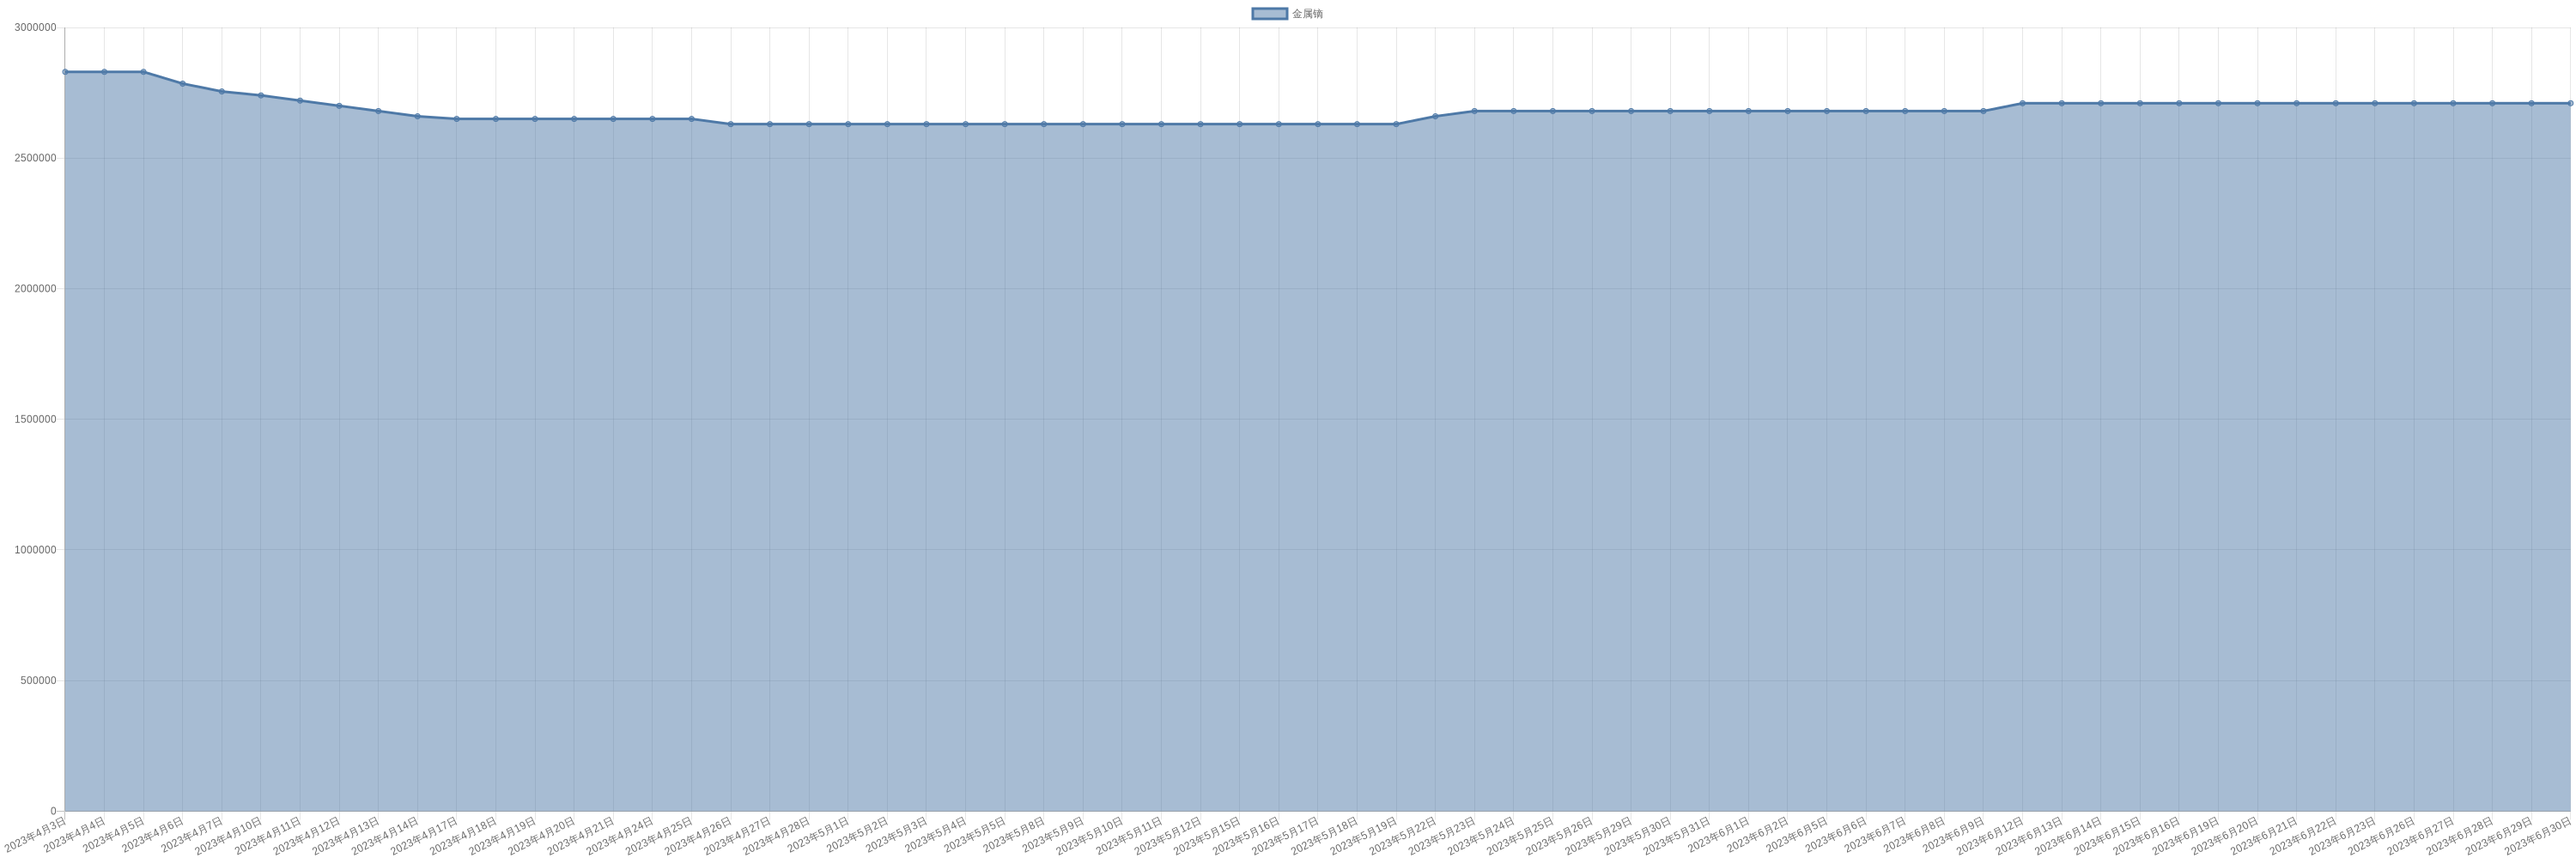
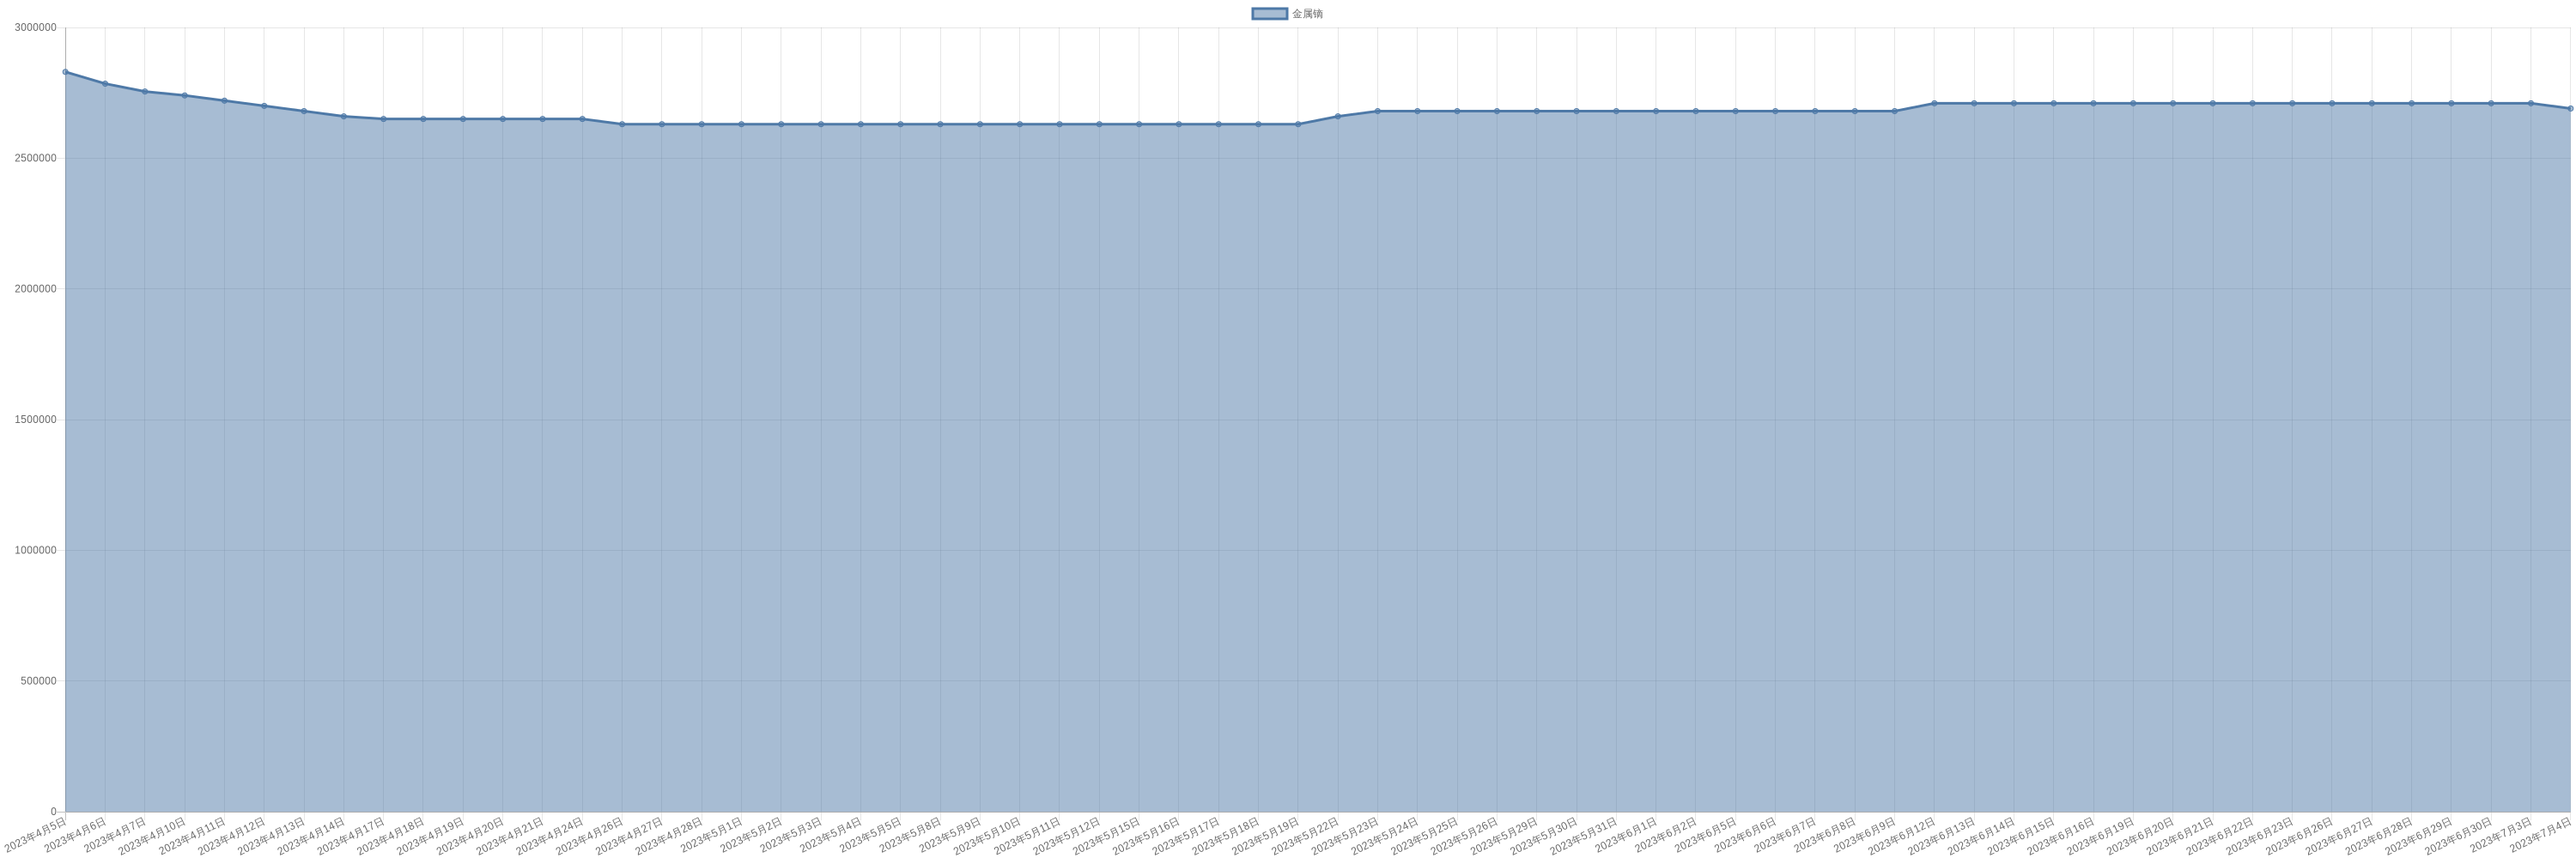
chore: sync bill & melinda gates foundation trust list

diff --git a/markdown/commodity/crudeOil.md b/markdown/commodity/crudeOil.md
@@ -2,6 +2,10 @@
 
 | 时间 | 价格 | 消息正文 |
 |:--:|:--:|:--:|
+|2023年7月4日WTI|69.79|7月4日WTI原油为69.79|
+|2023年7月4日Brent|74.65|7月4日Brent原油为74.65|
+|2023年7月3日WTI|70.64|7月3日WTI原油为70.64|
+|2023年7月3日Brent|75.41|7月3日Brent原油为75.41|
 |2023年6月30日WTI|69.86|6月30日WTI原油为69.86|
 |2023年6月30日Brent|74.51|6月30日Brent原油为74.51|
 |2023年6月29日Brent|74.24|6月29日Brent原油为74.24|

diff --git a/markdown/commodity/dysprosiumMetal.md b/markdown/commodity/dysprosiumMetal.md
@@ -8,6 +8,8 @@
 
 | 时间 | 价格 | 消息正文 |
 |:--:|:--:|:--:|
+|2023年7月4日|2690000|7月4日金属镝为2690000.00|
+|2023年7月3日|2710000|7月3日金属镝为2710000.00|
 |2023年6月30日|2710000|6月30日金属镝为2710000.00|
 |2023年6月29日|2710000|6月29日金属镝为2710000.00|
 |2023年6月28日|2710000|6月28日金属镝为2710000.00|

diff --git a/markdown/commodity/dysprosiumOxide.md b/markdown/commodity/dysprosiumOxide.md
@@ -8,6 +8,8 @@
 
 | 时间 | 价格 | 消息正文 |
 |:--:|:--:|:--:|
+|2023年7月4日|2070000|7月4日氧化镝为2070000.00|
+|2023年7月3日|2150000|7月3日氧化镝为2150000.00|
 |2023年6月30日|2225000|6月30日氧化镝为2225000.00|
 |2023年6月29日|2225000|6月29日氧化镝为2225000.00|
 |2023年6月28日|2225000|6月28日氧化镝为2225000.00|

diff --git a/markdown/commodity/liquefiedNaturalGas.md b/markdown/commodity/liquefiedNaturalGas.md
@@ -8,6 +8,8 @@
 
 | 时间 | 价格 | 消息正文 |
 |:--:|:--:|:--:|
+|2023年7月4日|4030|7月4日液化天然气为4030.00|
+|2023年7月3日|4118|7月3日液化天然气为4118.00|
 |2023年6月30日|4296|6月30日液化天然气为4296.00|
 |2023年6月29日|3930|6月29日液化天然气为3930.00|
 |2023年6月28日|3974|6月28日液化天然气为3974.00|

diff --git a/markdown/commodity/neodymium.md b/markdown/commodity/neodymium.md
@@ -8,6 +8,8 @@
 
 | 时间 | 价格 | 消息正文 |
 |:--:|:--:|:--:|
+|2023年7月4日|590000|7月4日金属钕为590000.00|
+|2023年7月3日|602500|7月3日金属钕为602500.00|
 |2023年6月30日|602500|6月30日金属钕为602500.00|
 |2023年6月29日|605000|6月29日金属钕为605000.00|
 |2023年6月28日|615000|6月28日金属钕为615000.00|

diff --git a/markdown/commodity/neodymiumOxide.md b/markdown/commodity/neodymiumOxide.md
@@ -8,6 +8,8 @@
 
 | 时间 | 价格 | 消息正文 |
 |:--:|:--:|:--:|
+|2023年7月4日|462500|7月4日氧化钕为462500.00|
+|2023年7月3日|477500|7月3日氧化钕为477500.00|
 |2023年6月30日|477500|6月30日氧化钕为477500.00|
 |2023年6月29日|480000|6月29日氧化钕为480000.00|
 |2023年6月28日|490000|6月28日氧化钕为490000.00|

diff --git a/markdown/commodity/praseodymium.md b/markdown/commodity/praseodymium.md
@@ -8,6 +8,8 @@
 
 | 时间 | 价格 | 消息正文 |
 |:--:|:--:|:--:|
+|2023年7月4日|627500|7月4日金属镨为627500.00|
+|2023年7月3日|627500|7月3日金属镨为627500.00|
 |2023年6月30日|627500|6月30日金属镨为627500.00|
 |2023年6月29日|627500|6月29日金属镨为627500.00|
 |2023年6月28日|635000|6月28日金属镨为635000.00|

diff --git a/markdown/commodity/praseodymiumOxide.md b/markdown/commodity/praseodymiumOxide.md
@@ -8,6 +8,8 @@
 
 | 时间 | 价格 | 消息正文 |
 |:--:|:--:|:--:|
+|2023年7月4日|467500|7月4日氧化镨为467500.00|
+|2023年7月3日|477500|7月3日氧化镨为477500.00|
 |2023年6月30日|477500|6月30日氧化镨为477500.00|
 |2023年6月29日|482500|6月29日氧化镨为482500.00|
 |2023年6月28日|487500|6月28日氧化镨为487500.00|
